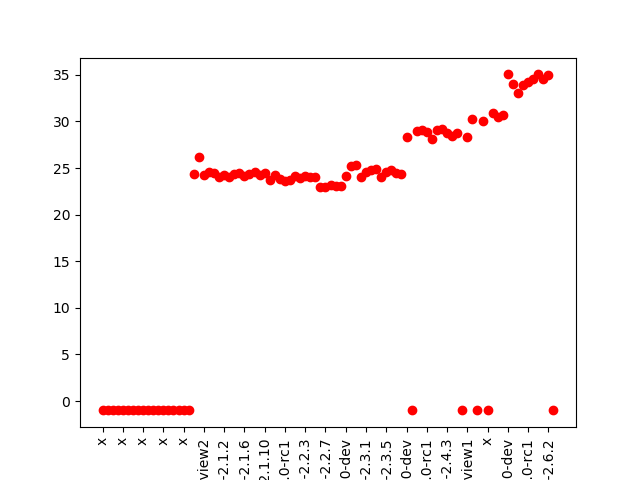
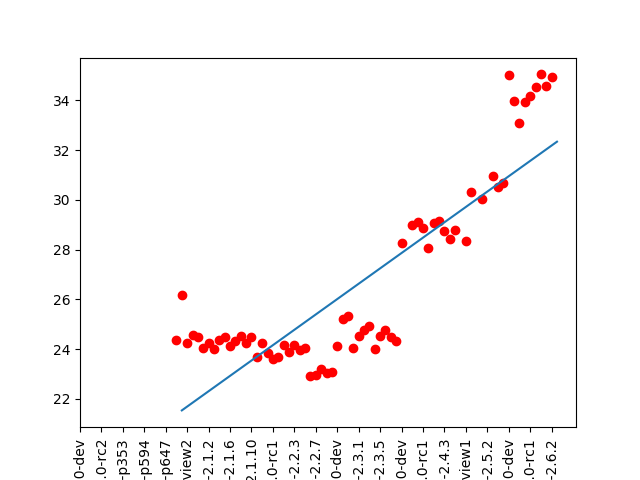
lin interp

diff --git a/stats.py b/stats.py
@@ -3,11 +3,13 @@ import numpy as np
 import matplotlib.pyplot as plt
 from operator import itemgetter
 
-NOVERSION = -1
+NOVERSION = None
 NOJUMP = -10
 crubyMeans = []
 crubyStdDevs = []
 crubyVersions = []
+crubyVersionsLine = []
+crubyVersionsLineX = []
 crubyJumps = []
 sortedCrubyJumps = []
 jrubyMeans = []
@@ -16,24 +18,23 @@ jrubyVersions = []
 jrubyJumps = []
 sortedJrubyJumps = []
 
-for i in ['results.csv', 'jruby_results2.csv']:
+for i in ['results.csv', 'jruby_results3.csv']:
 
 	with open(i) as f:
 
 		reader = csv.reader(f, delimiter=',')
 
-		if i == 'jruby_results2.csv' :
+		if i == 'jruby_results3.csv' :
 			#try:
 			#	reader = sorted(reader, key = lambda s: list(map(int, str(s[1])[6:].split('.'))))
 			#except ValueError:
 			#	print("x")
 			#	reader = sorted(reader, key = lambda s: list(map(int, str(s[1])[6:].split('.'))))
 			reader = sorted(reader, key = lambda s: list(map(int, ((str((s[1].split('-'))[1])).split('.'))[:3])))
-
-			for i in reader:
-				print(i)
-
+		
+		ind = 0
 		for row in reader:
+			ind+=1
 			if len(row) == 7:
 				times = []
 				for i in range(2, 7):
@@ -45,6 +46,8 @@ for i in ['results.csv', 'jruby_results2.csv']:
 					crubyMeans.append(np.mean(times))
 					crubyStdDevs.append(np.std(times))
 					crubyVersions.append(row[1])
+					crubyVersionsLine.append(np.mean(times))
+					crubyVersionsLineX.append(ind)
 				else:
 					jrubyMeans.append(np.mean(times))
 					jrubyStdDevs.append(np.std(times))
@@ -54,7 +57,7 @@ for i in ['results.csv', 'jruby_results2.csv']:
 				if row[0] == "cruby":
 					crubyMeans.append(NOVERSION)
 					crubyStdDevs.append(NOVERSION)
-					crubyVersions.append("x")
+					crubyVersions.append(row[1])
 				else:
 					jrubyMeans.append(NOVERSION)
 					jrubyStdDevs.append(NOVERSION)
@@ -77,6 +80,21 @@ for i in range(0, 10) :
 	jumpVal = sortedCrubyJumps[i]
 	print(jumpVal, end=', ')
 	print(crubyVersions[crubyJumps.index(jumpVal)])
+
+
+#Linear INterpolation
+#xValsCruby = []
+
+#for i in range(0, len(crubyVersions)) :
+#	xValsCruby.append(i)
+m, b = np.polyfit(crubyVersionsLineX, crubyVersionsLine, 1)
+
+crubyLine = []
+
+for i in crubyVersionsLineX :
+	crubyLine.append(m*i + b)
+
+
 
 ##jRuby
 
@@ -106,6 +124,7 @@ crubyX = [int(i)*CST for i in np.arange(0, len(crubyVersions)/CST)]
 crubyVersionsPlot = itemgetter(*crubyX)(crubyVersions)
 
 plt.plot(crubyMeans, 'ro')
+plt.plot(crubyVersionsLineX, crubyLine)
 plt.xticks(rotation=90)
 plt.xticks(crubyX, crubyVersionsPlot)
 plt.savefig("figRubyMeans.png")
